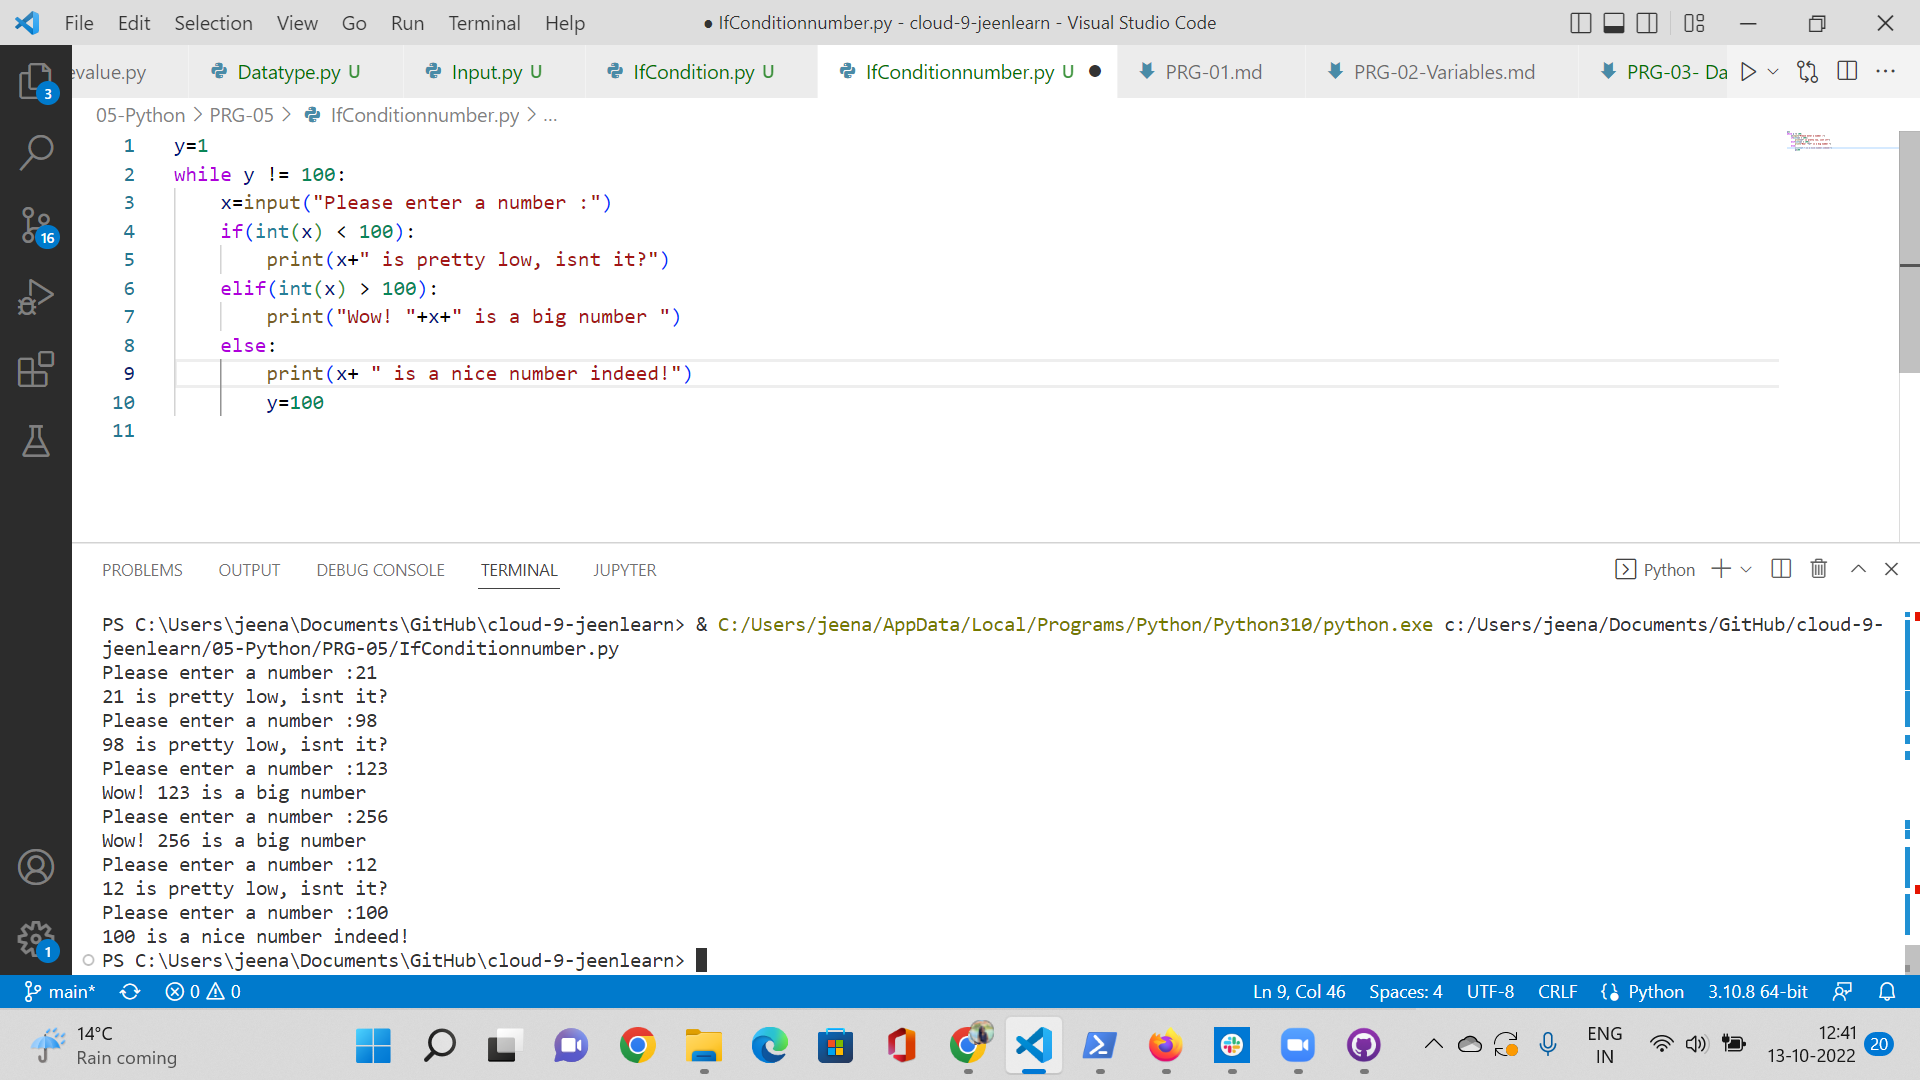
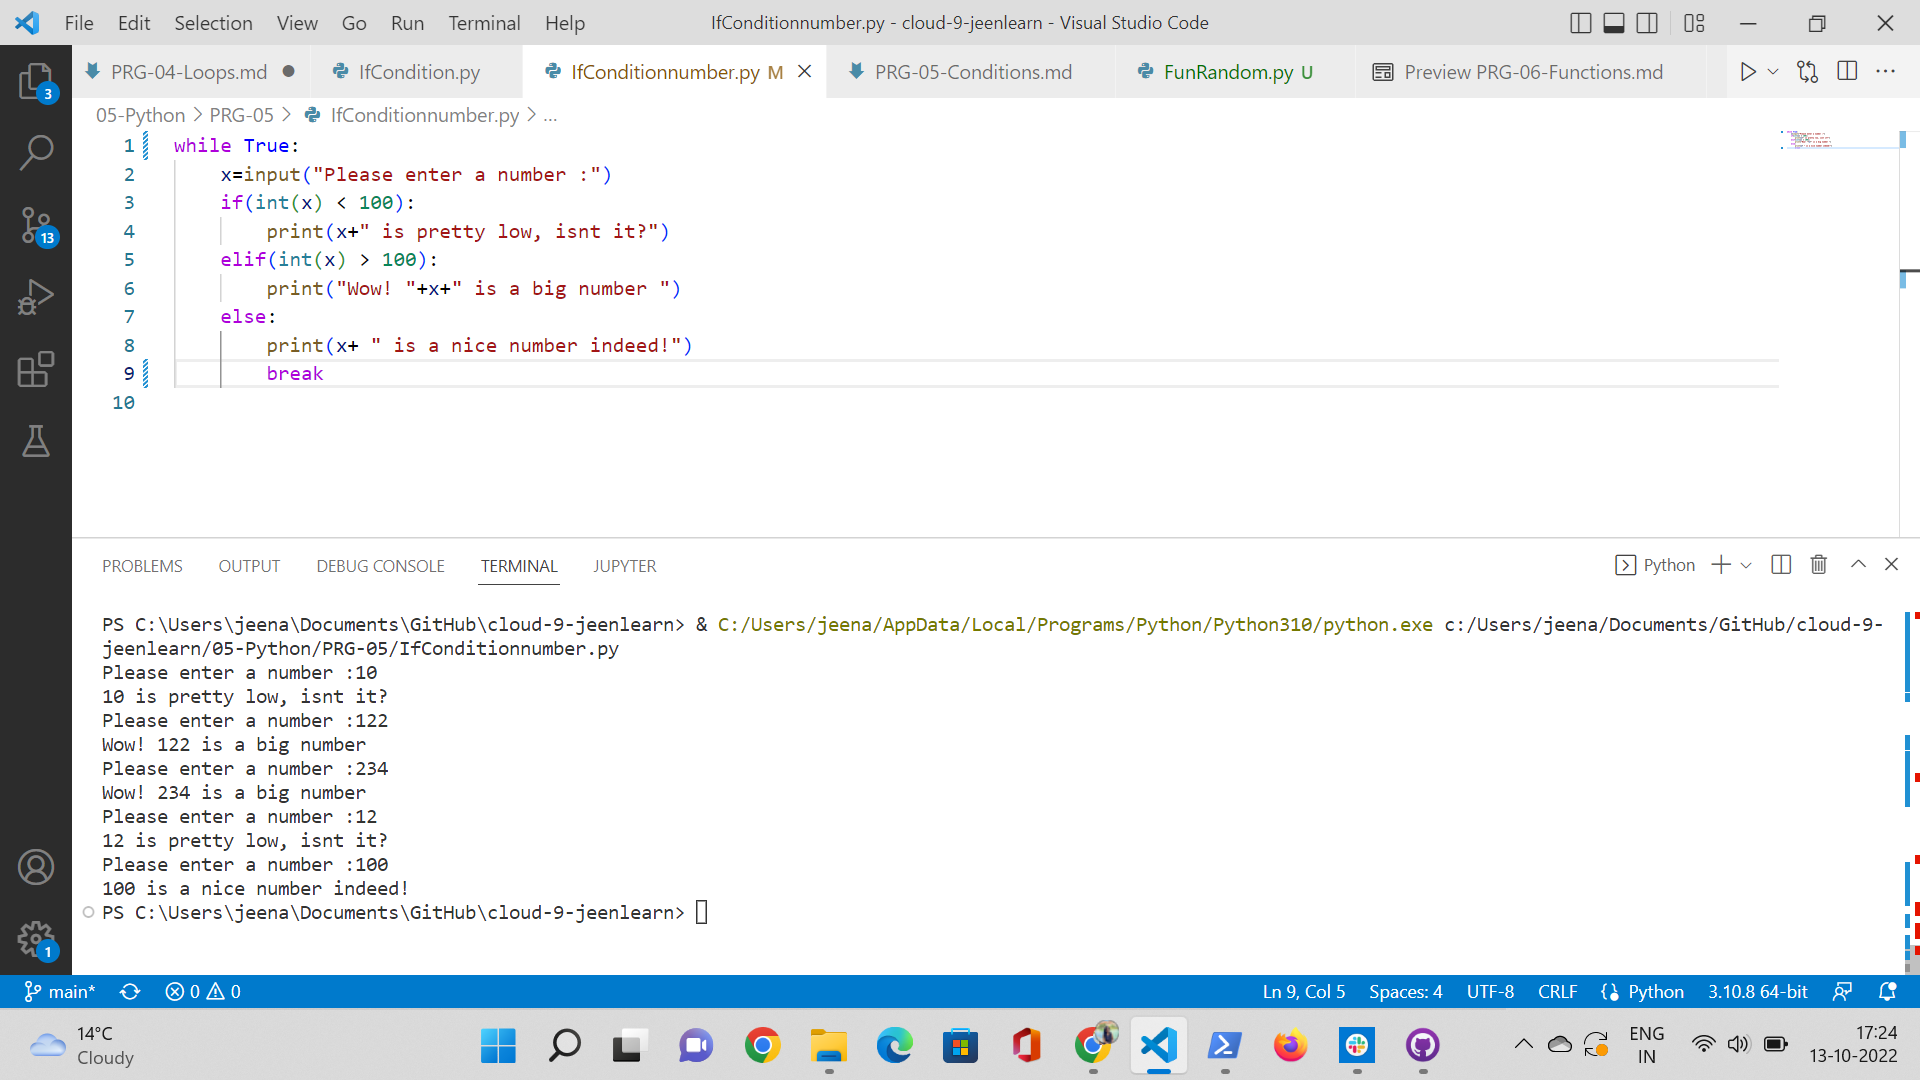
PRG-05-File update

diff --git a/05-Python/PRG-05/IfConditionnumber.py b/05-Python/PRG-05/IfConditionnumber.py
@@ -1,5 +1,4 @@
-y=1
-while y != 100:
+while True:
     x=input("Please enter a number :")
     if(int(x) < 100):
         print(x+" is pretty low, isnt it?")
@@ -7,5 +6,5 @@ while y != 100:
         print("Wow! "+x+" is a big number ")
     else:
         print(x+ " is a nice number indeed!")
-        y=100
+        break
         
